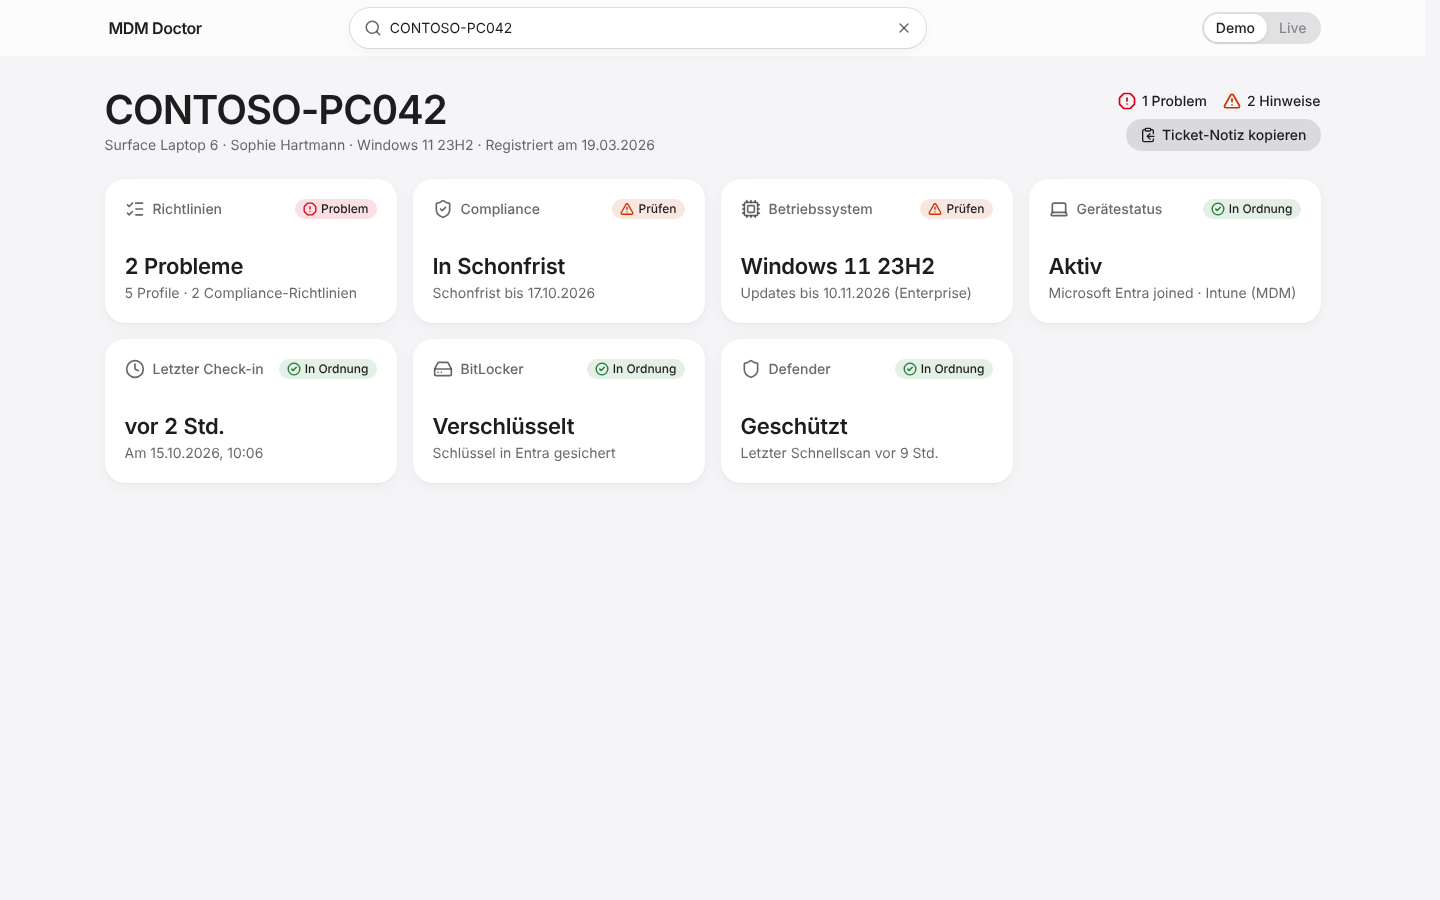
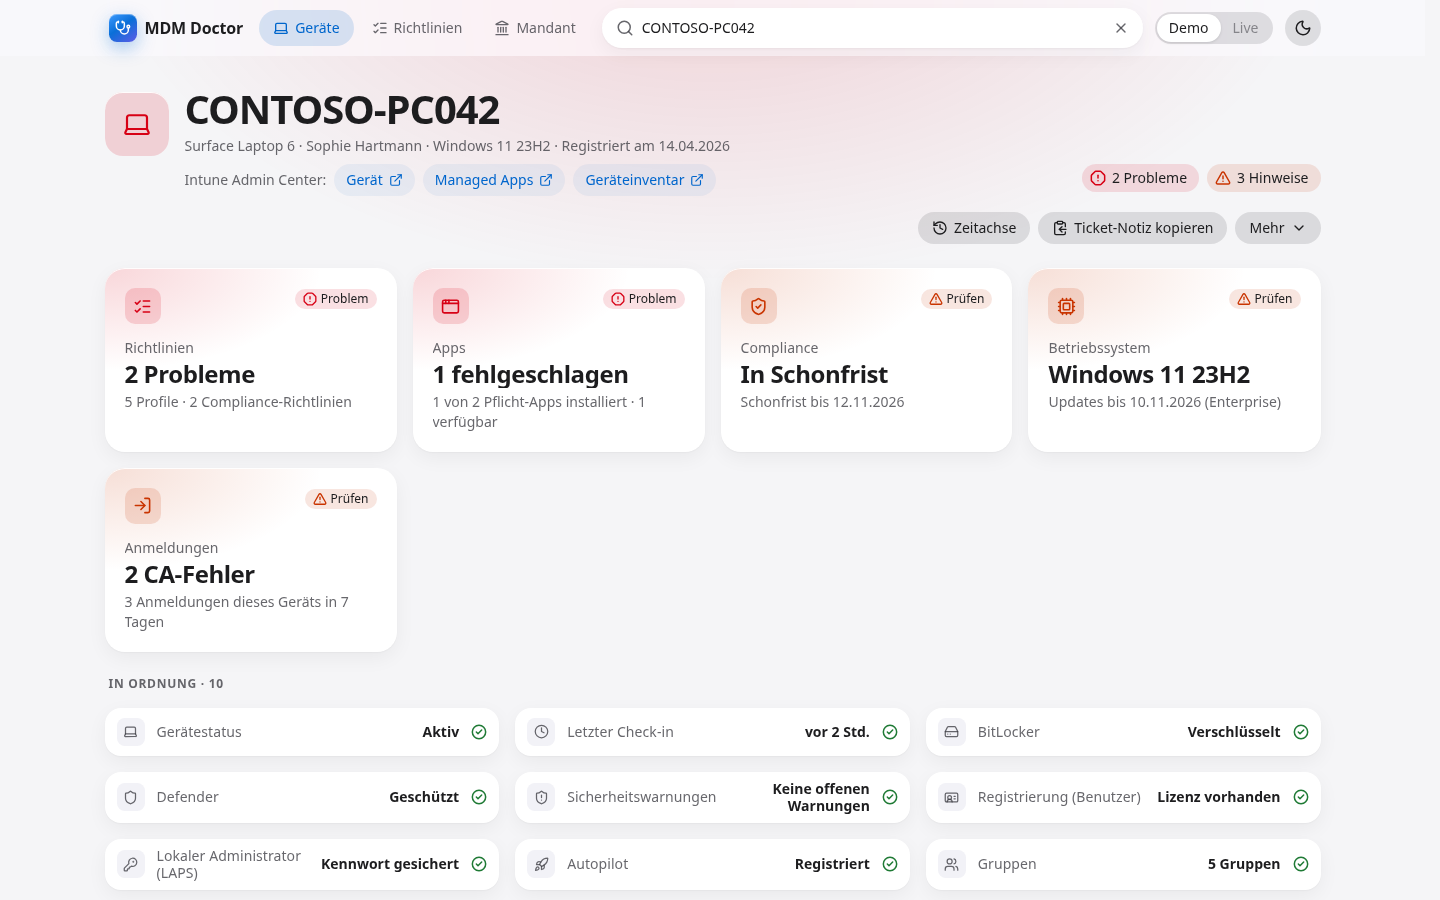
M17: kompakte Zeilen brechen Wörter nie, README-Screenshots neu erzeugt (Contoso)

diff --git a/src/ui/CompactTile.tsx b/src/ui/CompactTile.tsx
@@ -47,7 +47,7 @@ export function CompactTile({ tile, onOpen, ref }: Props) {
       </span>
       <span
         data-tile-title=""
-        className="min-w-0 flex-1 text-sm leading-tight font-medium tracking-[0.005em] text-secondary-label"
+        className="min-w-min flex-1 text-sm leading-tight font-medium tracking-[0.005em] text-secondary-label"
       >
         {tile.title}
       </span>
@@ -65,7 +65,7 @@ export function CompactTile({ tile, onOpen, ref }: Props) {
         <span className="sr-only">{statusText}</span>
       </span>
       <span
-        className={`max-w-[50%] shrink-0 text-right text-sm leading-tight font-semibold tabular-nums ${
+        className={`min-w-min shrink text-right text-sm leading-tight font-semibold tabular-nums ${
           muted ? 'text-secondary-label' : 'text-label'
         }`}
       >
